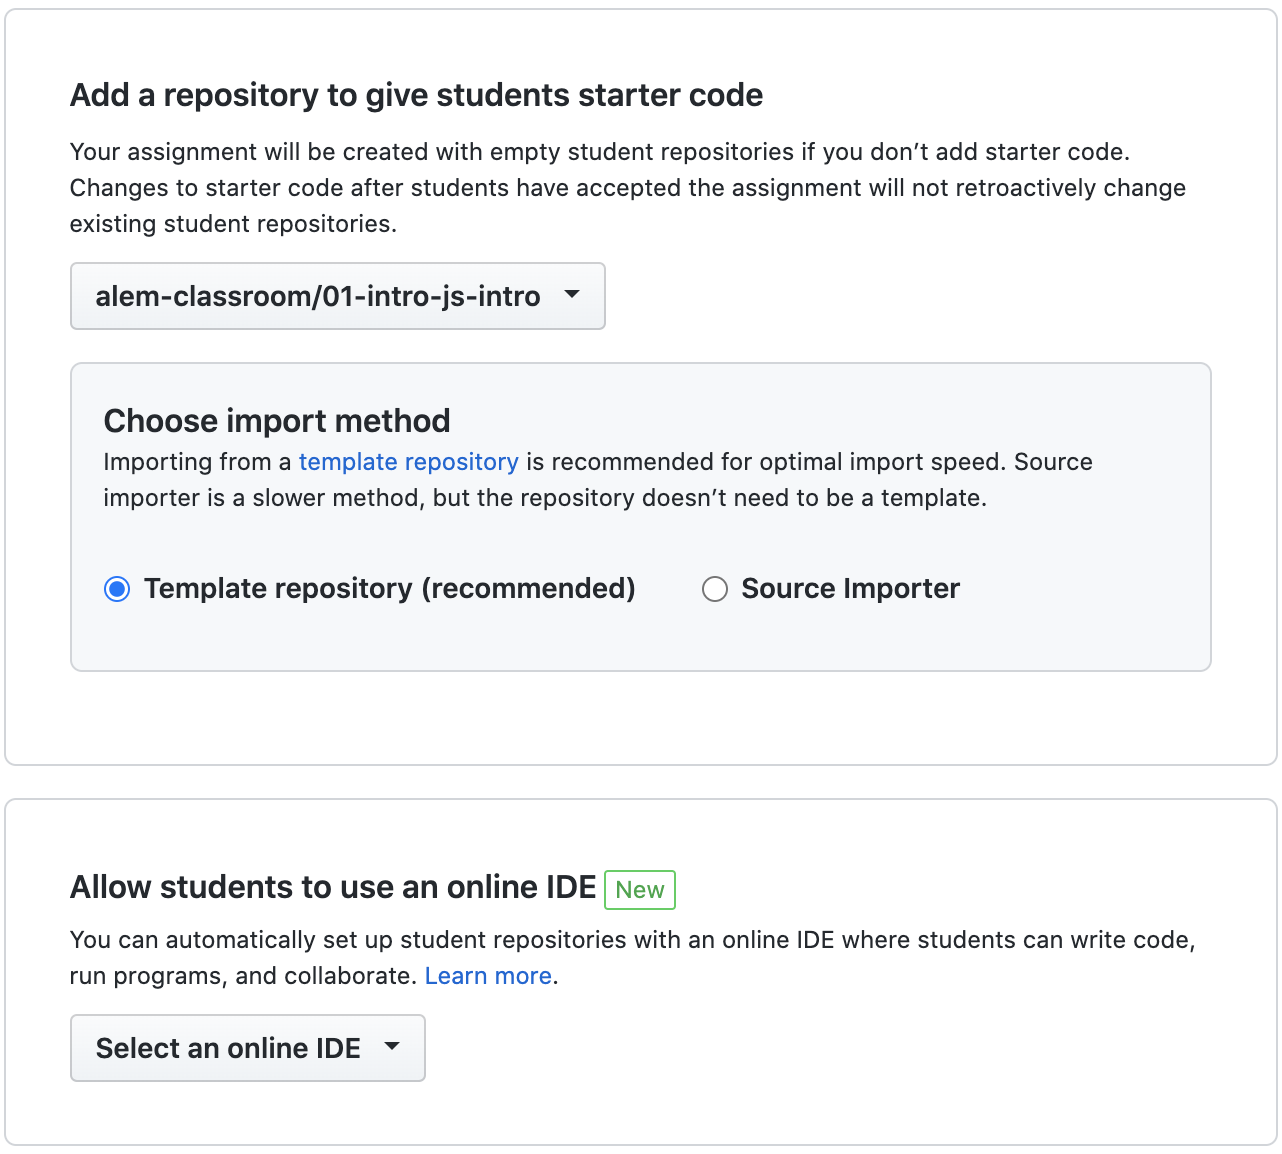
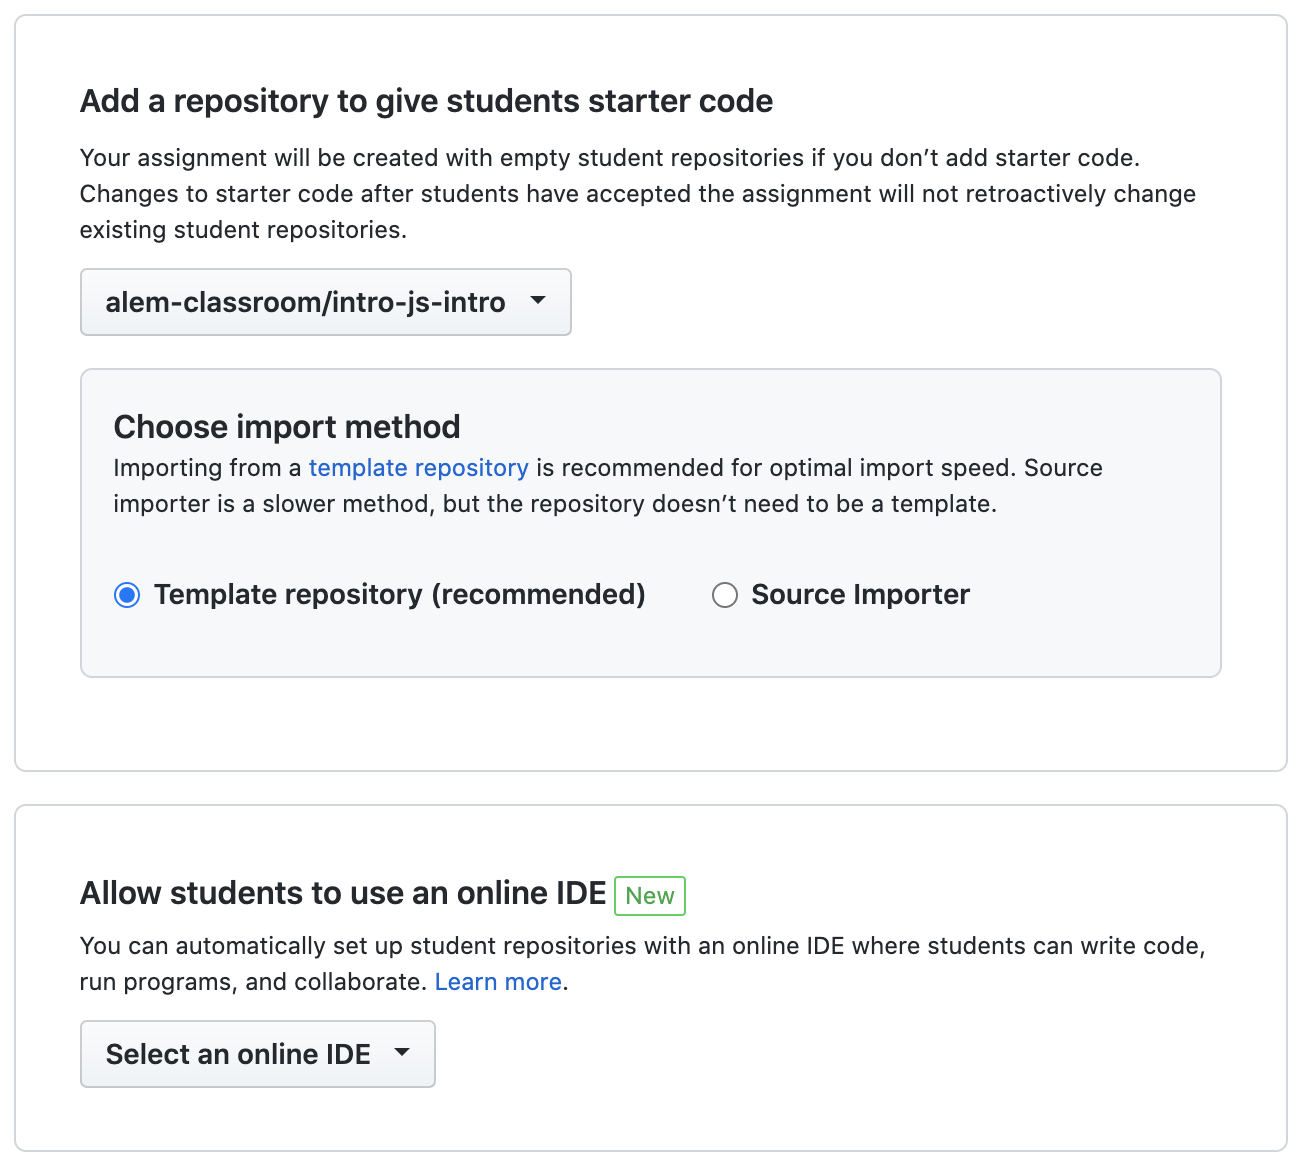
edit

diff --git a/create-assignment.md b/create-assignment.md
@@ -16,14 +16,16 @@
 
 Далее, вводим название курса. Его можно узнать из файла `.config` вашего курса.<br>
 Параметр `name`
-![](./img/create-assignment-3.png)
+![](./img/create-assignment-4.png)
 
 Теперь создаем `assignment`
-![](./img/create-assignment-4.png)
+![](./img/create-assignment-3.png)
 
 `Title` должен быть в формате: <br>
 `[lesson-name]-[course-name]-task` <br>
-Пример: `01-intro-js-intro-task`<br>
+
+Если название урока `01-intro`, достаточно имени без номера. <br>
+Пример: `intro-js-intro-task`<br>
 Все параметры можно получить в репозитории курса
 ![](./img/create-assignment-6.png)
 
